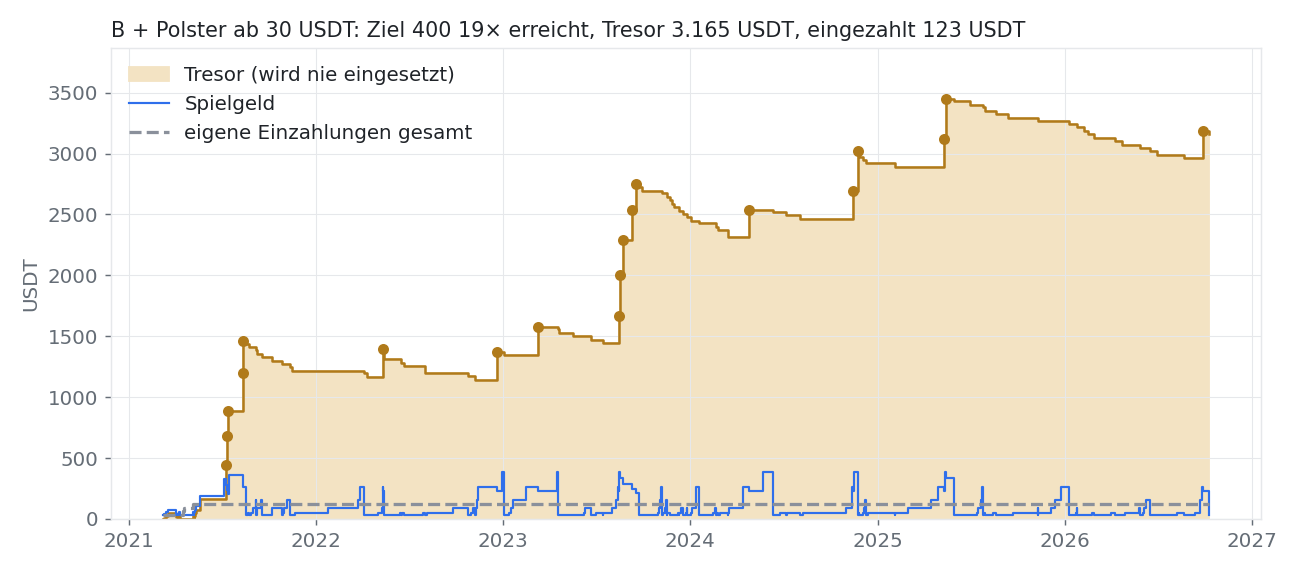
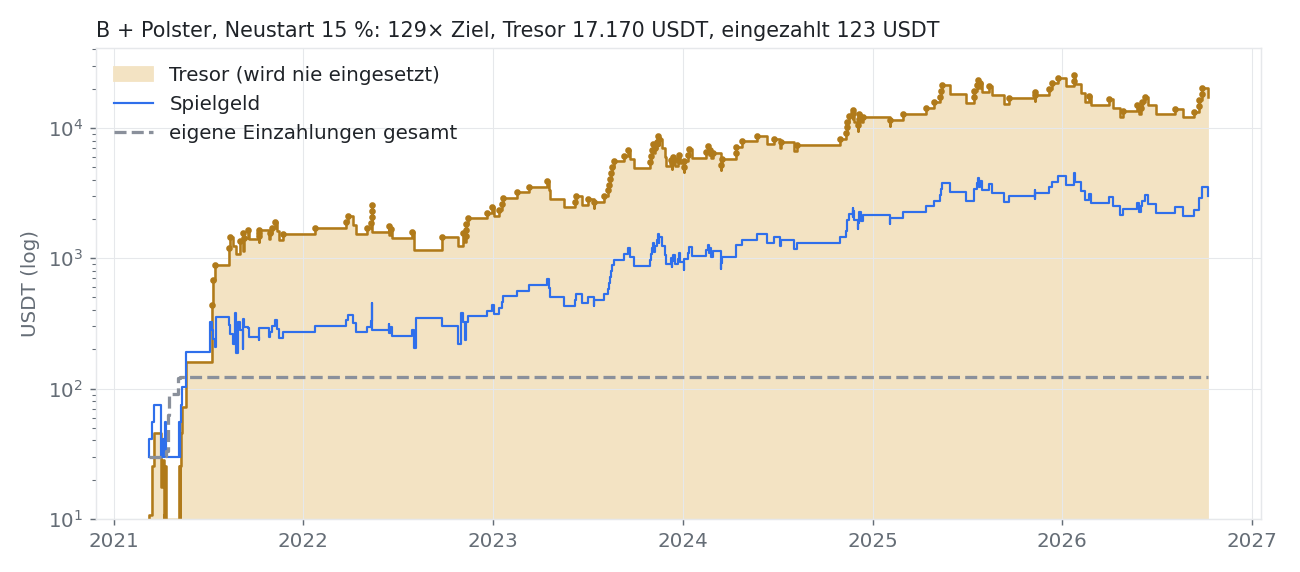
zockerbot: dynamischer Neustart (15 % vom Konto)
- settings: neustart_anteil 0.15 – nach einer Liquidation (und beim Ziel) wird das Spielgeld aus dem
  Tresor auf max(30 USDT, 15 % des Kontos) aufgefüllt; bei kleinem Konto unverändert 30 USDT
- live.py und backtest.py mit derselben Logik; backtest.py --neustart-anteil zum Vergleichen
- Telegram: „Spielgeld auf … aufgefüllt“
- README: Serienmodus, Vergleichstabelle, Jahreswerte, Rückgänge, Einstellungen, Herleitung 10;
  Grafik zeigt Tresor/Spielgeld mit dynamischem Neustart (log)

diff --git a/docs/make_charts.py b/docs/make_charts.py
@@ -10,7 +10,7 @@ HERE = os.path.dirname(os.path.abspath(__file__))
 T = pd.read_csv(os.path.join(HERE, "..", "forschung", "ausbruch_stark_trades.csv"), parse_dates=["einstieg", "ausstieg"])
 G = 0.075 * 10 - 0.008
 SCHWELLE = 100 / (1 + G)
-E, NEU, ZIEL, KEEP, POLSTER = 0.97, 30.0, 400.0, 0.5, 150.0
+E, NEU, ZIEL, KEEP, POLSTER, DYN = 0.97, 30.0, 400.0, 0.5, 150.0, 0.15
 
 # Modus serie, B + Polster: Spielgeld, Tresor, eigene Einzahlungen nach jedem Trade
 spiel, tresor, ein, rows, ziele = NEU, 0.0, NEU, [], []
@@ -20,15 +20,16 @@ for t, w in zip(T.ausstieg, T.treffer):
     if w and tresor < POLSTER:
         tresor += 0.5 * g; g *= 0.5
     spiel += g
+    neu = max(NEU, DYN * (spiel + tresor))            # dynamischer Neustart wie live
     if spiel >= ZIEL:
-        b = max(NEU, KEEP * spiel); tresor += spiel - b; spiel = b; ziele.append(t)
-    elif spiel < NEU:
-        need = NEU - spiel
+        b = max(neu, KEEP * spiel); tresor += spiel - b; spiel = b; ziele.append(t)
+    elif spiel < neu - 0.01:
+        need = neu - spiel
         if tresor >= need:
             tresor -= need
         else:
             ein += need - tresor; tresor = 0.0
-        spiel = NEU
+        spiel = neu
     rows.append((t, spiel, tresor, ein))
 S = pd.DataFrame(rows, columns=["d", "spiel", "tresor", "ein"])
 # Modus anteil 20 %
@@ -53,16 +54,16 @@ def frame(t, h):
 
 for name, t in themes.items():
     fig, ax = frame(t, 4.4)
-    ax.fill_between(S["d"], 0, S["tresor"], step="post", color=t["tf"], label="Tresor (wird nie eingesetzt)")
+    ax.fill_between(S["d"], 10, S["tresor"].clip(lower=10), step="post", color=t["tf"], label="Tresor (wird nie eingesetzt)")
     ax.step(S["d"], S["tresor"], where="post", color=t["t"], lw=1.4)
     ax.step(S["d"], S["spiel"], where="post", color=t["a"], lw=1.2, label="Spielgeld")
     ax.step(S["d"], S["ein"], where="post", color=t["ein"], lw=1.8, ls="--", label="eigene Einzahlungen gesamt")
     for d in ziele:
         v = S.loc[S["d"] == d, "tresor"].iloc[-1]
-        ax.scatter([d], [v], color=t["t"], s=26, zorder=3)
-    ax.set_ylabel("USDT"); ax.grid(color=t["grid"], lw=0.6); ax.set_ylim(0, max(S["tresor"].max(), S["spiel"].max()) * 1.12)
+        ax.scatter([d], [v], color=t["t"], s=7, zorder=3)
+    ax.set_yscale("log"); ax.set_ylabel("USDT (log)"); ax.grid(color=t["grid"], lw=0.6); ax.set_ylim(10, max(S["tresor"].max(), S["spiel"].max()) * 1.6)
     tz = f"{S['tresor'].iloc[-1]:,.0f}".replace(",", ".")
-    ax.set_title(f"B + Polster ab 30 USDT: Ziel 400 {len(ziele)}× erreicht, Tresor {tz} USDT, eingezahlt {S['ein'].iloc[-1]:.0f} USDT",
+    ax.set_title(f"B + Polster, Neustart 15 %: {len(ziele)}× Ziel, Tresor {tz} USDT, eingezahlt {S['ein'].iloc[-1]:.0f} USDT",
                  color=t["fg"], loc="left", fontsize=11.5)
     ax.legend(frameon=False, labelcolor=t["fg"], loc="upper left"); fig.tight_layout()
     fig.savefig(os.path.join(HERE, f"serie_{name}.png"), facecolor=t["bg"]); plt.close(fig)

diff --git a/backtest.py b/backtest.py
@@ -95,6 +95,7 @@ def main():
     ap.add_argument("--ziel", type=float, default=None, help="Modus serie: ziel_usdt überschreiben")
     ap.add_argument("--im-spiel", type=float, default=None, help="Modus serie: im_spiel_nach_ziel überschreiben (0..1)")
     ap.add_argument("--polster", type=float, default=None, help="Modus serie: polster_usdt überschreiben (0 = aus)")
+    ap.add_argument("--neustart-anteil", type=float, default=None, help="Modus serie: neustart_anteil überschreiben (0 = fest 30 USDT)")
     ap.add_argument("--tresor-start", type=float, default=0.0, help="Modus serie: eigene Reserve im Tresor zum Start (wie live.py --tresor)")
     a = ap.parse_args()
     if a.von:
@@ -115,6 +116,8 @@ def main():
         cfg["im_spiel_nach_ziel"] = a.im_spiel
     if a.polster is not None:
         cfg["polster_usdt"] = a.polster
+    if a.neustart_anteil is not None:
+        cfg["neustart_anteil"] = a.neustart_anteil
     modus = a.modus or cfg["modus"]
     f = a.fraction if a.fraction is not None else cfg["margin_fraction"]
     lev, tp, kmax = cfg["leverage"], cfg["tp_pct"], cfg["max_positionen"]
@@ -179,18 +182,19 @@ def main():
                 tresor += pol_anteil * gewinn
                 gewinn *= 1 - pol_anteil
             spiel += gewinn
+            neu_dyn = max(neu, float(cfg.get("neustart_anteil", 0.0)) * (spiel + tresor))   # wie live: dynamischer Neustart
             if spiel >= cfg["ziel_usdt"]:
-                bleibt = max(neu, cfg.get("im_spiel_nach_ziel", 0.2) * spiel)
+                bleibt = max(neu_dyn, cfg.get("im_spiel_nach_ziel", 0.2) * spiel)
                 tresor += spiel - bleibt; spiel = bleibt; hits += 1
-            elif spiel < neu:                         # wie live: unter neustart_usdt aus dem Tresor auffüllen
-                need = neu - spiel
+            elif spiel < neu_dyn - 0.01:              # wie live: unter Neustart-Betrag aus dem Tresor auffüllen
+                need = neu_dyn - spiel
                 if tresor >= need:
                     tresor -= need
                 else:
                     ext += need - tresor; tresor = 0.0
-                spiel = neu
+                spiel = neu_dyn
         print(f"Serie ab {a.start:.0f} USDT + Reserve {a.tresor_start:.0f}, Ziel {cfg['ziel_usdt']}, danach "
-              f"{cfg.get('im_spiel_nach_ziel', 0.2) * 100:.0f} % im Spiel, Polster {pol:.0f}: "
+              f"{cfg.get('im_spiel_nach_ziel', 0.2) * 100:.0f} % im Spiel, Polster {pol:.0f}, Neustart {cfg.get('neustart_anteil', 0) * 100:.0f} %: "
               f"{hits}x erreicht | eingezahlt {ext:.0f} | Tresor {tresor:.0f} | Spielgeld {spiel:.0f} | netto {tresor + spiel - ext:+.0f} USDT")
     else:
         k, peak, mdd, op = a.start, a.start, 0.0, []

diff --git a/live.py b/live.py
@@ -12,7 +12,8 @@ Alle 15 Minuten kurz nach Kerzenschluss:
 Modus „serie“: jeder Trade mit (fast) dem ganzen Spielgeld, Gewinne laufen mit (Zinseszins).
   Spielgeld = Konto minus Tresor. Erreicht das Spielgeld `ziel_usdt`, bleibt `im_spiel_nach_ziel`
   (mindestens `neustart_usdt`) im Spiel, der Rest wandert in den Tresor und wird nie eingesetzt.
-  Nach einer Liquidation füllt der Bot das Spielgeld aus dem Tresor wieder auf `neustart_usdt` auf.
+  Nach einer Liquidation füllt der Bot das Spielgeld aus dem Tresor wieder auf den Neustart-Betrag auf:
+  max(`neustart_usdt`, `neustart_anteil` × Konto) – mit großem Tresor wächst der Einsatz also mit.
   Polster: Solange der Tresor unter `polster_usdt` plus eigener Reserve (--tresor) liegt, geht
   `polster_anteil` jedes Gewinns sofort in den Tresor.
   Hebst du ab, erkennt der Bot den gesunkenen Kontostand und verkleinert den Tresor entsprechend.
@@ -286,6 +287,7 @@ def tresor_verwalten(cfg, st, tg, equity):
         st["reserve_eigen"] = min(st.get("reserve_eigen", 0.0), st["tresor"])
         telegram(tg, f"zockerbot: Abhebung erkannt. Konto {equity:.2f} USDT, Tresor jetzt {st['tresor']:.2f} USDT.")
     spiel = equity - st["tresor"]
+    neu = max(neu, cfg.get("neustart_anteil", 0.0) * equity)  # dynamischer Neustart: Anteil des ganzen Kontos
     if spiel >= cfg.get("ziel_usdt", 1e18):                  # Ziel: Teil bleibt im Spiel, Rest in den Tresor
         bleibt = max(neu, cfg.get("im_spiel_nach_ziel", 0.20) * spiel)
         st["tresor"] += spiel - bleibt
@@ -295,10 +297,10 @@ def tresor_verwalten(cfg, st, tg, equity):
                      f"{spiel - bleibt:.2f} USDT in den Tresor, {bleibt:.2f} USDT spielen weiter.\n"
                      f"Tresor gesamt {st['tresor']:.2f} USDT – kann jederzeit abgehoben werden.")
         log.info(f"Ziel erreicht: Tresor {st['tresor']:.2f}, Spielgeld {bleibt:.2f}")
-    elif spiel < neu and st["tresor"] > 0:                    # nach Liquidation: aus dem Tresor auffüllen
+    elif spiel < neu - 0.01 and st["tresor"] > 0:             # Spielgeld unter Neustart-Betrag: aus dem Tresor auffüllen
         nachschub = min(neu - spiel, st["tresor"])
         st["tresor"] -= nachschub
-        telegram(tg, f"zockerbot: neue Serie mit {spiel + nachschub:.2f} USDT – {nachschub:.2f} USDT aus dem Tresor "
+        telegram(tg, f"zockerbot: Spielgeld auf {spiel + nachschub:.2f} USDT aufgefüllt – {nachschub:.2f} USDT aus dem Tresor "
                      f"(Tresor jetzt {st['tresor']:.2f} USDT).")
         log.info(f"Aus Tresor aufgefüllt: {nachschub:.2f}, Tresor {st['tresor']:.2f}")
     if st["tresor"] != t0:

diff --git a/README.md b/README.md
@@ -7,7 +7,7 @@
 ![Börse](https://img.shields.io/badge/B%C3%B6rse-Bitget%20Futures-00b8d9?style=for-the-badge)
 ![Hebel](https://img.shields.io/badge/Hebel-x10%20isoliert-red?style=for-the-badge)
 ![Coins](https://img.shields.io/badge/Coins-42-orange?style=for-the-badge)
-![Modus](https://img.shields.io/badge/Modus-B%20%2B%20Polster-b07a1a?style=for-the-badge)
+![Modus](https://img.shields.io/badge/Modus-B%20%2B%20Polster%20%2B%20Neustart%2015%25-b07a1a?style=for-the-badge)
 ![Stop-Loss](https://img.shields.io/badge/Stop--Loss-keiner-black?style=for-the-badge)
 
 **Ein Serien-Zocker mit Sicherheitskissen: Er wartet, bis ein Coin auf Tagesbasis stark ausbricht, kauft den nächsten kurzen Einbruch auf 15 Minuten und nimmt +7,5 % Kurs mit – mit x10 sind das +74 % auf den Einsatz. Gewinne laufen in den nächsten Trade, ein Teil wandert sofort in einen Tresor, aus dem der Bot nach einer Liquidation selbst neu startet.**
@@ -23,8 +23,8 @@
 - **42 Coins** auf Bitget (USDT-Perpetuals), **Long und Short**, **immer nur eine Position gleichzeitig**.
 - **Einstieg** beim 15m-Rücksetzer in einem starken Tagesausbruch; **Ausstieg** nur per Take-Profit bei **+7,5 % Kurs**, Hebel **x10 isoliert**, **kein Stop-Loss** (Liquidation bei ca. 9,5 % Gegenbewegung).
 - **Pro Treffer +74 %** auf die Margin, Gewinnschwelle **57,4 %** Treffer. Backtest 2021–2026: **226 Trades, 66,4 % Treffer**, längste Serie **13 Treffer in Folge**.
-- **Serienmodus „B + Polster“ (Standard):** 97 % des Spielgelds je Trade; die Hälfte jedes Gewinns baut zuerst ein **Polster von 150 USDT** im Tresor auf; ab **400 USDT** Spielgeld wandert die Hälfte in den Tresor; nach einer Liquidation **füllt der Bot aus dem Tresor auf 30 USDT auf**.
-- **Backtest 2021–2026, Start 30 USDT:** 19× Ziel erreicht, **123 USDT selbst eingezahlt, 3.165 USDT im Tresor, netto +3.071 USDT** – in jedem geprüften Zeitraum im Plus, auch mit Bitget-Kursen seit Mai 2026.
+- **Serienmodus „B + Polster“ (Standard):** 97 % des Spielgelds je Trade; die Hälfte jedes Gewinns baut zuerst ein **Polster von 150 USDT** im Tresor auf; ab **400 USDT** Spielgeld wandert die Hälfte in den Tresor; nach einer Liquidation **füllt der Bot aus dem Tresor auf** – auf 30 USDT, mit großem Tresor auf **15 % des Kontos** (dynamischer Neustart).
+- **Backtest 2021–2026, Start 30 USDT:** **123 USDT selbst eingezahlt, Konto am Ende 20.200 USDT, netto +20.077 USDT** (ohne dynamischen Neustart +3.071) – in jedem geprüften Zeitraum im Plus, auch mit Bitget-Kursen seit Mai 2026; dafür Rückgänge bis 55 % bei großem Konto.
 - **Empfohlener Start:** 200 USDT einzahlen, `live.py --tresor 170` → 30 USDT spielen, 170 USDT Reserve.
 - **Live = Backtest:** `live.py` und `backtest.py` nutzen dieselben Funktionen `strategy.day_flags()` und `strategy.signals()` und dieselbe Tresor-/Polster-Logik; Signale auf 42 Coins identisch mit der Forschung (2.675 von 2.675).
 
@@ -51,29 +51,32 @@ So, wie man ein kleines Konto hochzockt – mit fester Regel und Sicherheitskiss
 1. **Start:** 200 USDT ins Futures-Konto und **vor dem ersten Start** einmal `.venv/bin/python3 live.py --tresor 170` – dann spielen 30 USDT, 170 USDT liegen als eigene Reserve im Tresor. (Mit nur 30 USDT ohne Reserve geht es auch.)
 2. **Jeder Trade** setzt 97 % des Spielgelds ein (Spielgeld = Konto minus Tresor). **Der Tresor wird nie eingesetzt.**
 3. **Polster:** Bei jedem Treffer geht die Hälfte des Gewinns sofort in den Tresor, bis dort 150 USDT plus deine eigene Reserve liegen. So bezahlt der Bot Neustarts schon nach wenigen Treffern selbst.
-4. **Ziel:** Erreicht das Spielgeld 400 USDT, bleibt die Hälfte (mindestens 30 USDT) im Spiel, die andere Hälfte wandert in den Tresor – ohne Pause geht es weiter. Mit 50 % im Spiel reichen danach 2 Treffer bis zum nächsten Ziel.
-5. **Liquidation:** Der Bot füllt das Spielgeld aus dem Tresor wieder auf 30 USDT auf und startet die nächste Serie. Einzahlen musst du nur, wenn der Tresor leer ist.
-6. **Abheben jederzeit** (ohne offene Position): Der Bot erkennt den kleineren Kontostand und verkleinert Tresor und Reserve, 30 USDT Spielgeld bleiben stehen.
+4. **Ziel:** Erreicht das Spielgeld 400 USDT, bleibt die Hälfte (mindestens der Neustart-Betrag) im Spiel, der Rest wandert in den Tresor – ohne Pause geht es weiter. Mit 50 % im Spiel reichen danach 2 Treffer bis zum nächsten Ziel.
+5. **Liquidation:** Der Bot füllt das Spielgeld aus dem Tresor wieder auf den **Neustart-Betrag** auf und startet die nächste Serie. Einzahlen musst du nur, wenn der Tresor leer ist.
+6. **Dynamischer Neustart:** Der Neustart-Betrag ist das Größere von 30 USDT und **15 % des ganzen Kontos**. Bei kleinem Konto bleibt es bei 30 USDT; ab rund 200 USDT Konto wächst er mit. Mit großem Tresor setzt der Bot so je Trade etwa 15 % des Kontos ein und sichert jeden Gewinn sofort.
+7. **Abheben jederzeit** (ohne offene Position): Der Bot erkennt den kleineren Kontostand und verkleinert Tresor und Reserve, 30 USDT Spielgeld bleiben stehen.
 
 Telegram meldet jeden Einstieg, jeden Treffer mit Serienstand und Polster-Anteil („TREFFER 3 in Folge … 10,80 USDT ins Polster“), jede Liquidation, jedes erreichte Ziel, jedes Auffüllen aus dem Tresor und erkannte Abhebungen.
 
 <picture>
   <source media="(prefers-color-scheme: dark)" srcset="docs/serie_dark.png">
-  <img alt="B + Polster von 2021 bis 2026: der Tresor wächst in Stufen auf rund 3.200 USDT, das Spielgeld schwankt zwischen 30 und 400 USDT, die eigenen Einzahlungen bleiben bei 123 USDT." src="docs/serie_light.png">
+  <img alt="B + Polster mit dynamischem Neustart von 2021 bis 2026, logarithmisch: der Tresor wächst auf rund 17.000 USDT, das Spielgeld auf einige tausend USDT, die eigenen Einzahlungen bleiben bei 123 USDT." src="docs/serie_light.png">
 </picture>
 
 ### Warum B + Polster
 
-Drei Einstellungen auf denselben Trades (Start 30 USDT; netto = Tresor + Spielgeld − eigene Einzahlungen; je Zeitraum frisch gestartet):
+Vier Einstellungen auf denselben Trades (Start 30 USDT; netto = Tresor + Spielgeld − eigene Einzahlungen; je Zeitraum frisch gestartet):
 
 | Einstellung | 2021–2023 | 2024 – 04/2026 | 05–11/2026 (Bitget) | 2021–2026 | selbst eingezahlt |
 |---|---|---|---|---|---|
 | A: Ziel 1.000, 20 % im Spiel | +4.256 | +1.444 | −112 | **+5.552** | 226 USDT |
 | B: Ziel 400, 50 % im Spiel | +2.682 | +645 | −112 | +3.398 | 226 USDT |
-| **B + Polster 150 (Standard)** | **+2.356** | **+480** | **+20** | **+3.071** | **123 USDT** |
+| B + Polster 150, Neustart fest 30 | +2.356 | +480 | +20 | +3.071 | 123 USDT |
+| **B + Polster 150, Neustart 15 % (Standard)** | **+5.248** | **+525** | **+20** | **+20.077** | **123 USDT** |
 
 - **A** bringt langfristig am meisten, braucht bis zum ersten Ziel aber im Median 182 und im schlimmsten Fall rund 700 USDT eigene Einzahlung – und hat seit März 2025 das Ziel nie erreicht.
-- **B + Polster** ist als einzige Einstellung in jedem Zeitraum im Plus und braucht die wenigste eigene Einzahlung; dafür etwa 45 % weniger Gewinn als A über 2021–2026.
+- **B + Polster** ist als einzige Einstellung in jedem Zeitraum im Plus und braucht die wenigste eigene Einzahlung.
+- **Dynamischer Neustart 15 %** macht daraus langfristig ein Vielfaches: Kontostand Jahresende 2022 +61 %, 2023 +115 %, 2024 +129 %, 2025 +99 %, 2026 bisher −29 %; größter Rückgang ab 1.000 USDT Konto 55 %. Bei frischem Start mit kleinem Konto ändert er nichts (2024–04/2026 frisch: +525 statt +480; 200 USDT ab Mai: gleich). Läuft der Bot schon mit großem Konto, brachte Mai bis heute +27 % (fest 30: +2 %). 10 % wären vorsichtiger (+9.466, Rückgang 57 %), 20 % kaum besser als 15 %, aber mit 67 % Rückgang.
 - **200 USDT am 1. Mai 2026** (30 Spiel + 170 Reserve, Bitget-Kurse): A und B heute 88 USDT, **B + Polster 220 USDT** – das Konto fiel dabei nie unter 153 USDT.
 - **Kleinere oder größere Ziele** (150 bis 2.000) und andere Anteile im Spiel wurden ebenfalls gerechnet: kleinere Ziele sind stetiger, größere bringen langfristig mehr, wechseln aber je Zeitraum die Rangfolge; Ziel 2.000 wurde 2024–2026 nie erreicht.
 
@@ -130,6 +133,7 @@ Backtest auf Binance-Futures-Kerzen (15m) von 42 Coins, Januar 2021 bis Oktober 
 7. **Hebel und TP:** x20 mit TP 7,5 % trifft nur 46 %, die Serien reißen ab; x15 mit TP 10 % knapp schlechter; x10 mit TP 7,5 % bleibt am besten.
 8. **Bitget-Trailing-Stop statt festem TP** (1m-Kerzen, 8 Coins): früh aktiviert weniger je Trade, ab +7,5 % gleichwertig – fester TP bleibt.
 9. **Verluste seit Mai 2026 untersucht:** Sperre für erneuten Einstieg im selben Coin, Alter und Überdehnung des Ausbruchs, BTC-Richtung – alles in 2021–2023 widerlegt oder schädlich. Die Trefferquote seit Mai ist normal; es fehlte nur eine lange Serie. Daraus entstanden Tresor, kleineres Ziel und Polster.
+10. **Dynamischer Neustart** (2,5–20 % des Kontos, Ziel fest oder mitwachsend): Ziel fest bei 400 und 15–20 % lagen in 2021–2023 vorn (+5.248 / +5.284); 15 % gewählt wegen deutlich geringerer Rückgänge. Ein mitwachsendes Ziel war durchweg schlechter.
 
 Skripte und Ergebnisse: [`forschung/`](forschung/).
 
@@ -141,7 +145,7 @@ Alle 15 Minuten, 20 Sekunden nach Kerzenschluss:
 
 1. **Offene Position:** Steht der Take-Profit auf Bitget? Fehlt er, wird er neu gesetzt.
 2. **Position verschwunden:** Ergebnis feststellen (TP oder Liquidation), übrige Orders stornieren, Serienzähler fortschreiben, bei Treffer den Polster-Anteil in den Tresor buchen, in `data/trades.csv` eintragen, Telegram.
-3. **Tresor** (nur ohne offene Position): Abhebung erkennen, bei erreichtem Ziel die Hälfte in den Tresor buchen, nach Liquidation aus dem Tresor auf 30 USDT auffüllen; ist auch der Tresor leer → Einzahl-Meldung.
+3. **Tresor** (nur ohne offene Position): Abhebung erkennen, bei erreichtem Ziel die Hälfte in den Tresor buchen, Spielgeld aus dem Tresor auf den Neustart-Betrag auffüllen (max. von 30 USDT und 15 % des Kontos); ist auch der Tresor leer → Einzahl-Meldung.
 4. **Einmal pro UTC-Tag:** Tagesbedingung für alle 42 Coins aus der letzten abgeschlossenen Tageskerze.
 5. **Coins mit Tagesbedingung:** 15m-Signal auf der gerade geschlossenen Kerze prüfen; bei Signal und freier Position: isolierte Margin und x10 setzen, Market-Order mit 97 % des Spielgelds, Take-Profit als reduce-only Trigger-Order zum tatsächlichen Füllkurs ± 7,5 %.
 
@@ -186,7 +190,7 @@ Speicherbedarf unter 200 MB; je 15 Minuten werden nur die Coins mit aktiver Tage
 | `tail -f logs/zockerbot.log` | laufendes Protokoll |
 | `cat data/trades.csv` | alle abgeschlossenen Trades mit Serienstand |
 | `.venv/bin/python3 backtest.py --von 2026-05-01 --tresor-start 170` | Backtest mit Bitget-Kerzen ab Datum (davor nur Indikator-Vorlauf), gleiche Signal-, Tresor- und Polster-Logik wie live, mit Trade-Liste |
-| `… backtest.py --ziel 1000 --im-spiel 0.2 --polster 0` | andere Einstellungen testen, ohne `settings.json` zu ändern; `--modus anteil --fraction 0.2` für den Anteilsmodus |
+| `… backtest.py --ziel 1000 --im-spiel 0.2 --polster 0 --neustart-anteil 0` | andere Einstellungen testen, ohne `settings.json` zu ändern; `--modus anteil --fraction 0.2` für den Anteilsmodus |
 | `./update.sh` | neue Version holen; `settings.json`, `secret.json`, `data/`, `logs/` bleiben |
 
 ### Einstellungen (`settings.json`)
@@ -203,7 +207,8 @@ Speicherbedarf unter 200 MB; je 15 Minuten werden nur die Coins mit aktiver Tage
 | `im_spiel_nach_ziel` | 0.50 | Anteil, der nach dem Ziel weiterspielt (Rest → Tresor) |
 | `polster_usdt` | 150 | Polster: bis der Tresor diesen Betrag plus deine eigene Reserve erreicht, geht ein Teil jedes Gewinns sofort in den Tresor (0 = aus) |
 | `polster_anteil` | 0.50 | Anteil jedes Gewinns, der ins Polster geht |
-| `neustart_usdt` | 30 | Mindest-Spielgeld; darauf wird nach einer Liquidation aus dem Tresor aufgefüllt |
+| `neustart_usdt` | 30 | Mindest-Neustart-Betrag (Spielgeld nach einer Liquidation) |
+| `neustart_anteil` | 0.15 | dynamischer Neustart: Spielgeld wird aus dem Tresor auf mindestens diesen Anteil des Kontos aufgefüllt (0 = immer 30 USDT) |
 | `margin_fraction` | 0.20 | Anteil des Kontos je Trade im Modus `anteil` |
 | `min_margin_usdt` | 5.0 | darunter kein Trade |
 | `strategy` | 14 / 40 / 75 / 25 / 30 / 70 | RSI-Länge, Donchian-Tage, Tages-RSI Long/Short, 15m-RSI Long/Short |
@@ -229,7 +234,8 @@ zockerbot/
 
 ## ⚠ Risiken
 
-- **Kein Stop-Loss:** Ein Fehltreffer kostet die gesamte Margin dieses Trades – also das ganze Spielgeld. Der Tresor wird nie eingesetzt.
+- **Kein Stop-Loss:** Ein Fehltreffer kostet die gesamte Margin dieses Trades – also das ganze Spielgeld. Der Tresor wird nie direkt eingesetzt, finanziert aber jeden Neustart.
+- **Dynamischer Neustart:** Mit großem Konto setzt jeder Trade rund 15 % des Kontos; vier Liquidationen in Folge kosten dann etwa die Hälfte. Im Backtest fiel das Konto ab 1.000 USDT um bis zu 55 %, 2026 bisher −29 %.
 - **Serien sind Glück:** Ob ein Ziel fällt, hängt an einzelnen Trades – seit Mai 2026 entschied ein länger laufender Trade, ob eine 4er- oder 5er-Serie entstand. Jede Liquidation kostet den Tresor rund 29 USDT für den Neustart.
 - **2026 schwächer:** 56 % Treffer bei 27 Trades (Binance-Kurse), knapp unter der Gewinnschwelle von 57,4 %; mit Bitget-Kursen seit Mai 66,7 %.
 - **Backtest ≠ Zukunft:** Die Regel wurde aus vielen Varianten ausgewählt und gegengeprüft; der Vorteil von einigen Prozentpunkten Trefferquote kann verschwinden. Liquidationsabstand, Funding und Slippage auf Bitget können vom Backtest abweichen. Eine echte Order wurde vor dem ersten Live-Start noch nicht gesendet – den ersten Trade auf Bitget und in Telegram genau ansehen.
